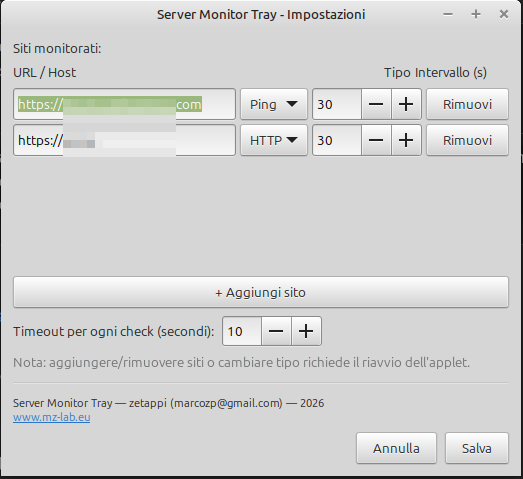
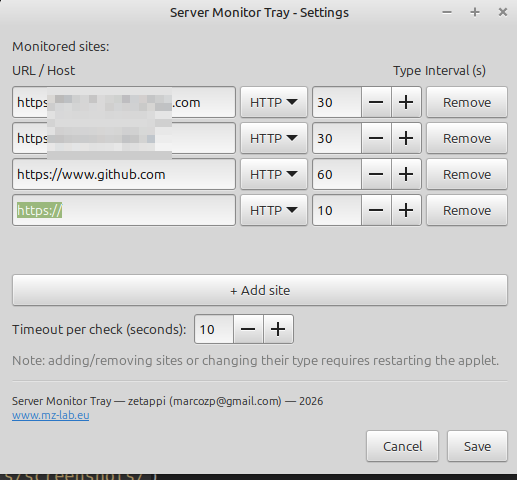
Update settings screenshot, improve project description

diff --git a/README.it.md b/README.it.md
@@ -2,7 +2,7 @@
 
 # Server Monitor Tray
 
-Applet per Linux, scritto in Rust, che monitora uno o più siti/host e mostra lo stato (online/offline) tramite un'icona nella system tray.
+Un'applet nativa e leggera per Linux, scritta in Rust, per tenere d'occhio i tuoi siti e server. Gira silenziosamente in background, controlla ogni sito con il proprio intervallo via HTTP o ping, e fa diventare rossa l'icona in tray — con tanto di popup desktop — nel momento in cui qualcosa va giù, così non devi tenere una scheda del browser aperta né aspettare che sia qualcun altro ad avvisarti che il tuo sito è offline.
 
 ## Screenshot
 

diff --git a/README.md b/README.md
@@ -2,7 +2,7 @@
 
 # Server Monitor Tray
 
-A Linux applet, written in Rust, that monitors one or more sites/hosts and shows their status (online/offline) via a system tray icon.
+A lightweight, native Linux tray application, written in Rust, for keeping an eye on your websites and servers. It runs quietly in the background, checks each site on its own schedule via HTTP or ping, and turns the tray icon red — with a desktop popup — the moment something goes down, so you don't have to keep a browser tab open or wait for someone else to tell you your site is offline.
 
 ## Screenshots
 
